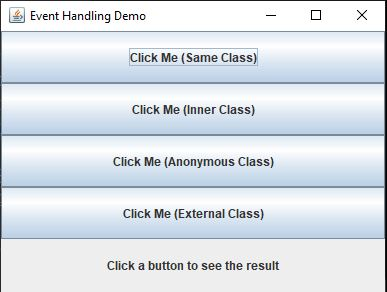
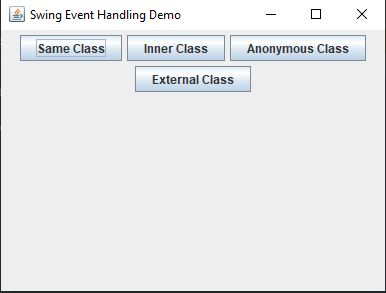
lab

diff --git a/Lab-2/qno17/EventHandlingDemo/src/Main.java b/Lab-2/qno17/EventHandlingDemo/src/Main.java
@@ -1,0 +1,116 @@
+import javax.swing.*;
+import java.awt.*;
+import java.awt.event.*;
+
+class EventHandlingDemo extends JFrame {
+
+    public EventHandlingDemo() {
+        // Set up the frame
+        setTitle("Event Handling Demo");
+        setSize(600, 400);
+        setDefaultCloseOperation(JFrame.EXIT_ON_CLOSE);
+        setLayout(new FlowLayout());
+
+        // Components
+        JTextField focusTextField = new JTextField(20);
+        JCheckBox itemCheckBox = new JCheckBox("Enable feature");
+        JLabel mouseLabel = new JLabel("Mouse Event Area", SwingConstants.CENTER);
+        mouseLabel.setPreferredSize(new Dimension(200, 50));
+        JTextArea keyTextArea = new JTextArea(5, 30);
+        JScrollPane scrollPane = new JScrollPane(keyTextArea);
+
+        // Add components to the frame
+        add(new JLabel("Focus Text Field:"));
+        add(focusTextField);
+        add(itemCheckBox);
+        add(mouseLabel);
+        add(new JLabel("Type here (Key Event Demo):"));
+        add(scrollPane);
+
+        // Window Event Handling
+        addWindowListener(new WindowAdapter() {
+            @Override
+            public void windowClosing(WindowEvent e) {
+                System.out.println("Window is closing.");
+            }
+
+            @Override
+            public void windowOpened(WindowEvent e) {
+                System.out.println("Window opened.");
+            }
+        });
+
+        // Item Event Handling
+        itemCheckBox.addItemListener(new ItemListener() {
+            @Override
+            public void itemStateChanged(ItemEvent e) {
+                if (e.getStateChange() == ItemEvent.SELECTED) {
+                    JOptionPane.showMessageDialog(EventHandlingDemo.this, "Checkbox Selected");
+                } else {
+                    JOptionPane.showMessageDialog(EventHandlingDemo.this, "Checkbox Deselected");
+                }
+            }
+        });
+
+        // Focus Event Handling
+        focusTextField.addFocusListener(new FocusListener() {
+            @Override
+            public void focusGained(FocusEvent e) {
+                focusTextField.setBackground(Color.YELLOW);
+                System.out.println("Focus gained on text field.");
+            }
+
+            @Override
+            public void focusLost(FocusEvent e) {
+                focusTextField.setBackground(Color.WHITE);
+                System.out.println("Focus lost from text field.");
+            }
+        });
+
+        // Mouse Event Handling using Adapter
+        mouseLabel.addMouseListener(new MouseAdapter() {
+            @Override
+            public void mouseClicked(MouseEvent e) {
+                JOptionPane.showMessageDialog(EventHandlingDemo.this, "Mouse Clicked!");
+            }
+
+            @Override
+            public void mouseEntered(MouseEvent e) {
+                mouseLabel.setBackground(Color.LIGHT_GRAY);
+                mouseLabel.setOpaque(true);
+                System.out.println("Mouse Entered the label.");
+            }
+
+            @Override
+            public void mouseExited(MouseEvent e) {
+                mouseLabel.setBackground(null);
+                System.out.println("Mouse Exited the label.");
+            }
+        });
+
+        // Key Event Handling
+        keyTextArea.addKeyListener(new KeyAdapter() {
+            @Override
+            public void keyTyped(KeyEvent e) {
+                System.out.println("Key Typed: " + e.getKeyChar());
+            }
+
+            @Override
+            public void keyPressed(KeyEvent e) {
+                System.out.println("Key Pressed: " + e.getKeyCode());
+            }
+
+            @Override
+            public void keyReleased(KeyEvent e) {
+                System.out.println("Key Released: " + e.getKeyCode());
+            }
+        });
+
+        // Make frame visible
+        setVisible(true);
+    }
+
+    public static void main(String[] args) {
+        new EventHandlingDemo();
+    }
+}

diff --git a/Lab-4/EventHandling/src/Main.java b/Lab-4/EventHandling/src/Main.java
@@ -1,0 +1,69 @@
+import javax.swing.*;
+import java.awt.*;
+import java.awt.event.*;
+
+// Event handler in another class
+class ExternalEventHandler implements ActionListener {
+    @Override
+    public void actionPerformed(ActionEvent e) {
+        JOptionPane.showMessageDialog(null, "Button clicked (External Event Handler)");
+    }
+}
+
+class EventHandling extends JFrame {
+    private JButton sameClassButton;
+    private JButton innerClassButton;
+    private JButton anonymousClassButton;
+    private JButton externalClassButton;
+
+    public EventHandling() {
+        // Frame settings
+        setTitle("Swing Event Handling Demo");
+        setSize(400, 300);
+        setDefaultCloseOperation(JFrame.EXIT_ON_CLOSE);
+        setLayout(new FlowLayout());
+
+        // Buttons
+        sameClassButton = new JButton("Same Class");
+        innerClassButton = new JButton("Inner Class");
+        anonymousClassButton = new JButton("Anonymous Class");
+        externalClassButton = new JButton("External Class");
+
+        // Adding buttons to frame
+        add(sameClassButton);
+        add(innerClassButton);
+        add(anonymousClassButton);
+        add(externalClassButton);
+
+        // Event handling
+        sameClassButton.addActionListener(this::sameClassHandler);
+        innerClassButton.addActionListener(new InnerClassHandler());
+        anonymousClassButton.addActionListener(new ActionListener() {
+            @Override
+            public void actionPerformed(ActionEvent e) {
+                JOptionPane.showMessageDialog(null, "Button clicked (Anonymous Inner Class)");
+            }
+        });
+        externalClassButton.addActionListener(new ExternalEventHandler());
+    }
+
+    // Event handling in the same class
+    private void sameClassHandler(ActionEvent e) {
+        JOptionPane.showMessageDialog(null, "Button clicked (Same Class)");
+    }
+
+    // Inner class for event handling
+    private class InnerClassHandler implements ActionListener {
+        @Override
+        public void actionPerformed(ActionEvent e) {
+            JOptionPane.showMessageDialog(null, "Button clicked (Inner Class)");
+        }
+    }
+
+    public static void main(String[] args) {
+        SwingUtilities.invokeLater(() -> {
+            EventHandling frame = new EventHandling();
+            frame.setVisible(true);
+        });
+    }
+}

diff --git a/Lab-4/EventHaandling/src/Main.java b/Lab-4/EventHaandling/src/Main.java
@@ -1,0 +1,15 @@
+//TIP To <b>Run</b> code, press <shortcut actionId="Run"/> or
+// click the <icon src="AllIcons.Actions.Execute"/> icon in the gutter.
+public class Main {
+    public static void main(String[] args) {
+        //TIP Press <shortcut actionId="ShowIntentionActions"/> with your caret at the highlighted text
+        // to see how IntelliJ IDEA suggests fixing it.
+        System.out.printf("Hello and welcome!");
+
+        for (int i = 1; i <= 5; i++) {
+            //TIP Press <shortcut actionId="Debug"/> to start debugging your code. We have set one <icon src="AllIcons.Debugger.Db_set_breakpoint"/> breakpoint
+            // for you, but you can always add more by pressing <shortcut actionId="ToggleLineBreakpoint"/>.
+            System.out.println("i = " + i);
+        }
+    }
+}
